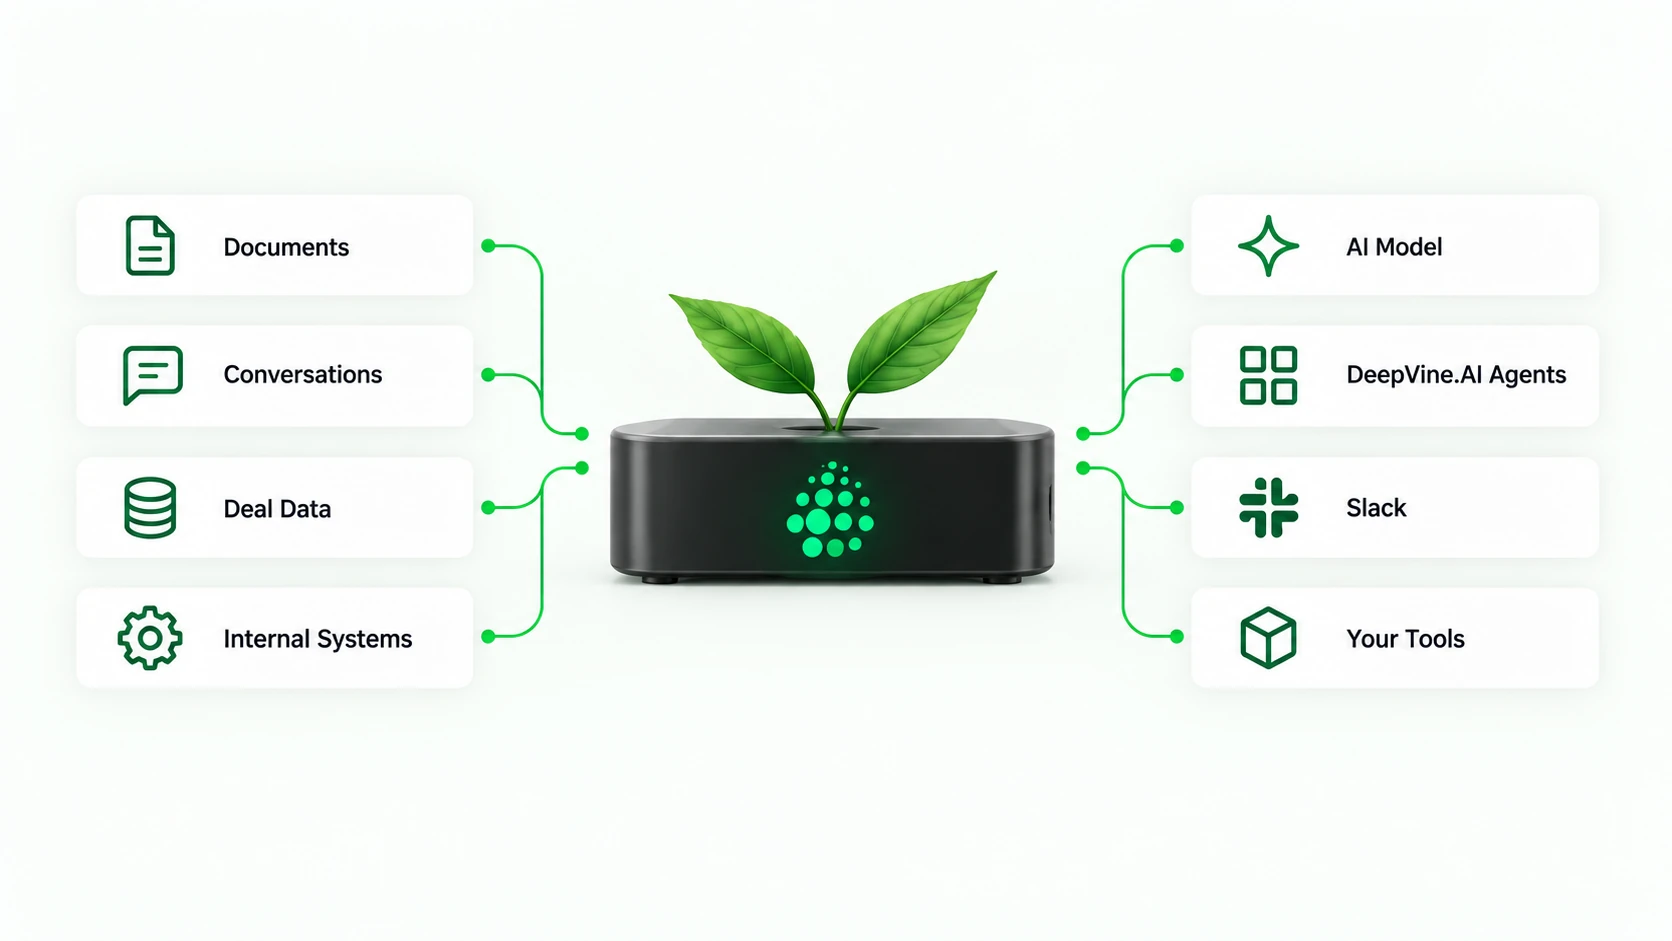
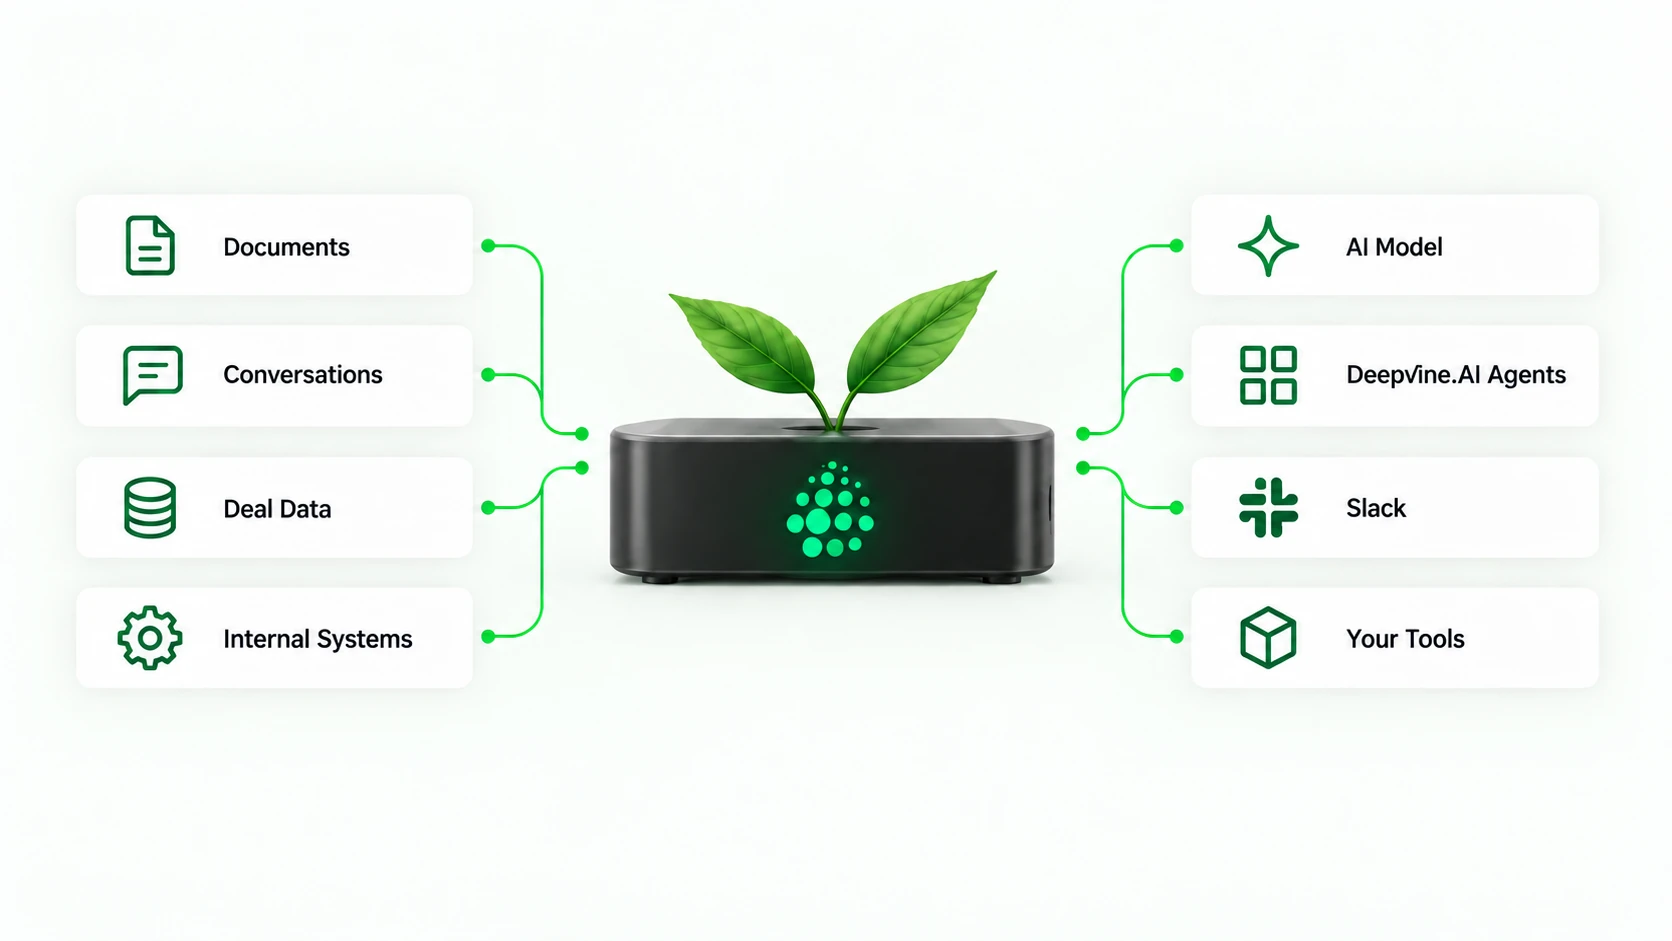
How It Works: use the updated Deepvine.AI memory and architecture graphics
The memory-layer diagram is replaced with the corrected artwork, and the
architecture row now shows the supplied graphic on wide screens (its own
caption included) while phones and tablets keep the HTML card row.

diff --git a/src/styles/pages.css b/src/styles/pages.css
@@ -287,8 +287,10 @@
 .checks{list-style:none;padding:0;display:grid;gap:12px}
 .checks li{display:flex;gap:12px;align-items:flex-start;font-size:16px;line-height:1.5;color:var(--ink-2)}
 .checks svg{width:22px;height:22px;flex:none;margin-top:1px}
-.hiw-arch{background:var(--white);padding:88px 0 96px;border-bottom:1px solid var(--line)}
-.flow5{list-style:none;padding:0;display:grid;grid-template-columns:repeat(5,1fr);gap:36px}
+.hiw-arch{background:#fbfefd;padding:88px 0 96px;border-bottom:1px solid var(--line)}
+.hiw-arch__img{display:block;width:100%;max-width:1240px;height:auto;margin:0 auto}
+.flow5,.flow5__note{display:none}
+.flow5{list-style:none;padding:0;grid-template-columns:repeat(5,1fr);gap:36px}
 .flow5__step{position:relative;background:#fff;border:1px solid var(--line);border-radius:16px;padding:26px 16px;text-align:center;box-shadow:0 1px 2px rgba(16,16,16,.04),0 20px 40px -34px rgba(0,0,0,.2)}
 .flow5__step .ico{width:40px;height:40px;margin:0 auto 14px;color:var(--green-700)}
 .flow5__step strong{display:block;font-size:16px;letter-spacing:-.01em;margin-bottom:6px}
@@ -310,9 +312,15 @@
   .flow3__arrow{transform:rotate(90deg);justify-self:center}
   .hiw-own__grid{grid-template-columns:1fr;gap:32px}
   .legend{grid-template-columns:repeat(2,1fr)}
-  .flow5{grid-template-columns:1fr 1fr;gap:14px}
+  .hiw-arch__img{display:none}
+  .flow5{display:grid;grid-template-columns:1fr 1fr;gap:14px}
+  .flow5__note{display:flex}
   .flow5__step::after{display:none}
   .vcards{grid-template-columns:1fr}
   .hiw-memory,.hiw-own,.hiw-arch,.hiw-value{padding:64px 0 72px}
 }
 @media (max-width:560px){ .flow5{grid-template-columns:1fr} .legend{grid-template-columns:1fr} }
+
+/* architecture: graphic carries its own caption on wide screens; HTML row + caption below 960px */
+.hiw-arch .flow5__note{display:none}
+@media (max-width:960px){ .hiw-arch .flow5__note{display:flex} }
